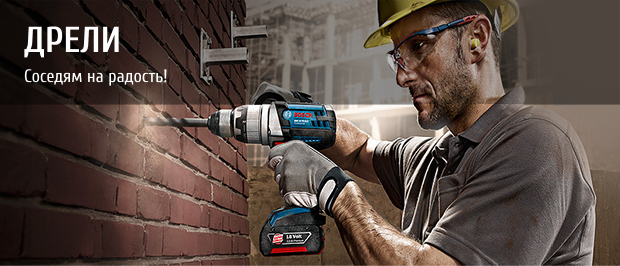
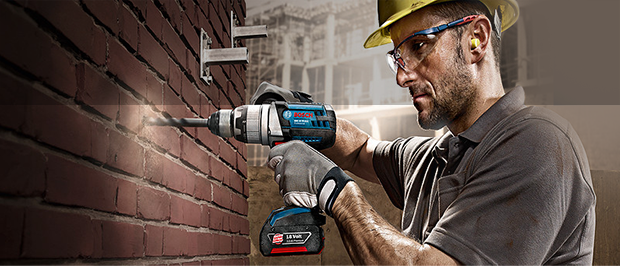
Правки

Changed region(s): [[0.0306, 0.0, 1.0, 0.391], [0.0306, 0.0902, 0.2145, 0.2105]]

diff --git a/index.html b/index.html
@@ -1,5 +1,5 @@
 <!DOCTYPE html>
-<html lang="ru">
+<html clas="page" lang="ru">
   <head>
     <meta charset="utf-8" />
     <title>HTML Academy: Техномарт</title>
@@ -8,9 +8,9 @@
     <link type="image/png" sizes="180x180" rel="apple-touch-icon" href="img/icons/favicon-180.png"/>
     <link rel="manifest" href="manifest.webmanifest" />
   </head>
-  <body>
-    <header>
-      <a>
+  <body class="page-body">
+    <header class="body-header">
+      <a class="body-header-logo">
         <img src="img/logo-technomart.svg" width="108" height="18" alt="Логотип Техномарта"/>
       </a>
       <form action="#" method="POST">
@@ -25,10 +25,10 @@
         <a href="tel:+78125550555">+7 (812) 555-05-55</a>
         г. Санкт-Петербург, ул. Б. Конюшенная, д. 19/8
       </p>
-      <a href="blank.html">Войти</a>
+      <a class="login-link" href="blank.html">Войти</a>
       <a href="blank.html">Регистрация</a>
-      <nav>
-        <ul>
+      <nav class="body-navigation">
+        <ul class="site-navigation">
           <li>
             <a>Главная</a>
           </li>
@@ -53,20 +53,20 @@
         </ul>
       </nav>
     </header>
-    <main>
-      <section>
+    <main class="container">
+      <section class="main">
         <h2>Главная страница</h2>
-        <nav>
-          <ul>
-            <li>
+        <nav class="main-navigation">
+          <ul class="main-list">
+            <li class="main-item">
               <h3>Материалы</h3>
               <a href="blank.html">на любой вкус</a>
             </li>
-            <li>
+            <li class="main-item">
               <h3>Инструмент</h3>
               <a href="blank.html">на все случаи </a>
             </li>
-            <li>
+            <li class="main-item">
               <h3>Техника</h3>
               <a href="blank.html">для стройки</a>
             </li>
@@ -75,6 +75,10 @@
             <li>
               <h3>Перфораторы</h3>
               <p>Настоящие мужские игрушки</p>
+              <img src="img/Perforators.png" alt="Мужчина с перфоратором">
+              <h3>Дрели</h3>
+              <p>Соседям на радость</p>
+              <img src="img/Drills.png" alt="Мужчина с дрелью">
               <a href="catalog.html">открыть каталог</a>
             </li>
             <li>
@@ -95,8 +99,7 @@
           <li>
             <h3>Перфоратор bosch bfg 9000</h3>
             <p>
-              <img src="img/bosch-9000.png" width="184" height="164" alt="Перфоратор BOSCH bfg 9000"
-              />
+              <img src="img/bosch-9000.png" width="184" height="164" alt="Перфоратор BOSCH bfg 9000"/>
             </p>
             <p>
               <s>32500 Р.</s>
@@ -106,10 +109,8 @@
           <li>
             <h3>Перфоратор bosch bfg 3000</h3>
             <p>
-              <img src="img/bosch-3000.png" width="127" height="112" alt="Перфоратор BOSCH bfg 3000"
-              />
+              <img src="img/bosch-3000.png" width="127" height="112" alt="Перфоратор BOSCH bfg 3000"/>
             </p>
-
             <p>
               <s>22500 Р.</s>
               <button type="button">15500 Р.</button>
@@ -118,8 +119,7 @@
           <li>
             <h3>Перфоратор bosch bfg 6000</h3>
             <p>
-              <img src="img/bosch-6000.png" width="144" height="128" alt="Перфоратор BOSCH bfg 6000"
-              />
+              <img src="img/bosch-6000.png" width="144" height="128" alt="Перфоратор BOSCH bfg 6000"/>
             </p>
             <p>
               <s>30500 Р.</s>
@@ -129,8 +129,7 @@
           <li>
             <h3>Перфоратор bosch bfg 2000</h3>
             <p>
-              <img src="img/bosch-2000.png" width="127" height="112" alt="Перфоратор BOSCH bfg 2000"
-              />
+              <img src="img/bosch-2000.png" width="127" height="112" alt="Перфоратор BOSCH bfg 2000"/>
             </p>
             <p>
               <s>22500 Р.</s>
